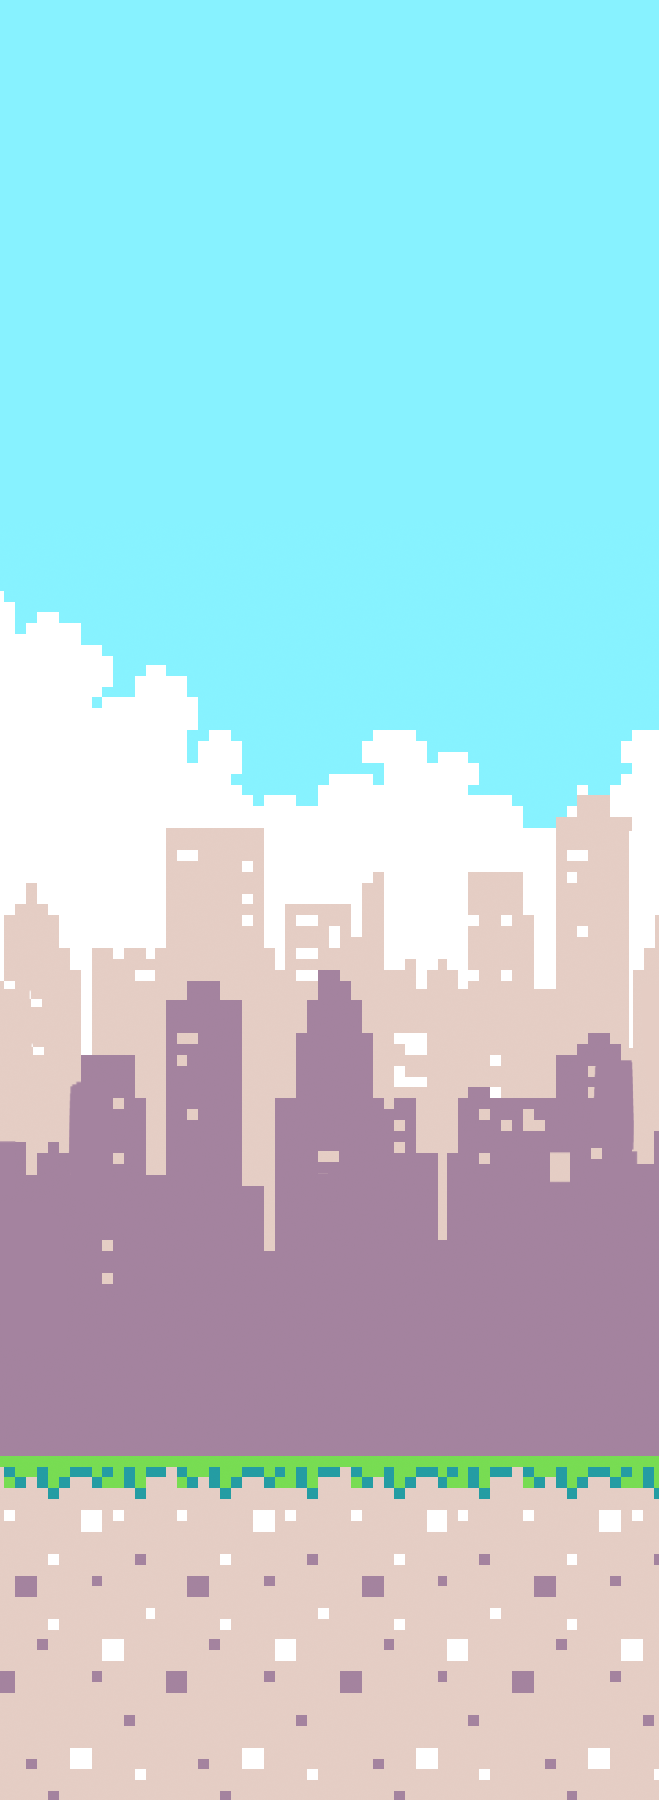
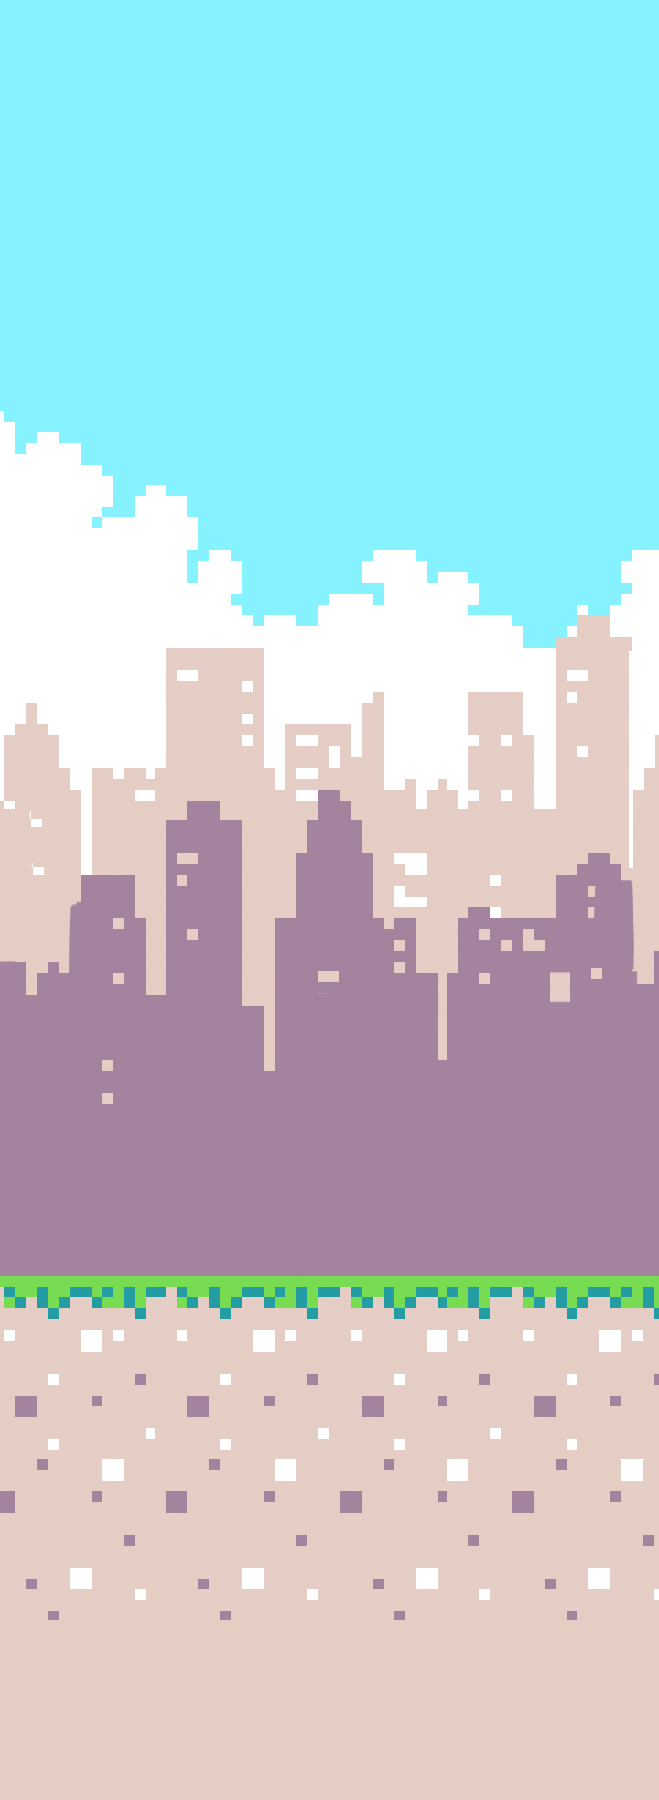
Insiders page changes & Space

diff --git a/docs/insiders.html b/docs/insiders.html
@@ -19,6 +19,7 @@
         h1 {
             font-size: 3em;
             margin-top: 1em;
+            color: #f5f7ec
         }
 
         .subheading {
@@ -28,6 +29,7 @@
 
         .tagline {
             opacity: 0.6;
+            color: #f5f7ec;
         }
 
         .header-image {
@@ -40,13 +42,12 @@
         }
 
         #root {
-            background: #0d0015;
+            background: #157175;
             background-image: url('static/insiders-background.png');
             display: block !important;
         }
 
         body,
-        h1,
         .ui.button {
             font-family: 'Helvetica Neue', Helvetica, Arial, sans-serif !important;
             font-weight: 300;
@@ -72,7 +73,7 @@
             justify-content: space-between;
             align-items: center;
             text-align: left;
-            background: #010102;
+            background: #157175;
             color: white;
             max-width: 800px;
             margin: 2em auto;
@@ -101,7 +102,7 @@
             width: 14em;
             padding: 1.5em;
             margin: 2em auto;
-            background-image: linear-gradient(116deg, #a3839e 0%, #f5f7ec 100%);
+            background-color:  #a3839e ;
             color: #ffffff;
             display: block;
             font-size: 1.4em;
@@ -111,9 +112,9 @@
 
         .ui.button:focus,
         .ui.button:hover {
-            background-image: linear-gradient(116deg, #a3839e 0%, #f5f7ec 100%);
+            background-color:  #f5f7ec ;
             box-shadow: 0 0 50px rgba(241, 193, 255, 0.75);
-            color: #ffffff;
+            color: #777777;
             filter: none;
             transform: scale(1.05);
         }
@@ -136,6 +137,11 @@
             ;
         }
 
+        ul.ui.list {
+            padding: 0;
+            margin: 0;
+        }
+
         ol.ui.list {
             padding: 0 2em;
             margin: 1em 1.25em;
@@ -153,6 +159,12 @@
             padding-bottom: 2em;
         }
 
+        .ele {
+            text-align: left;
+            max-width: 550px;
+            padding-bottom: 2em;
+        }
+
         .legal {
             font-size: .75em;
         }
@@ -163,7 +175,7 @@
 
         /** footer styling **/
         footer {
-            background-color: #0d0015 !important;
+            background-color: #157175 !important;
             border-top: 1px solid hsla(0, 0%, 100%, 0.2) !important;
             margin-top: 0 !important;
             padding-top: 2rem !important;
@@ -194,7 +206,8 @@
             }
 
             h1 {
-                font-size: 2.3em;
+                font-size: 2em;
+                font-weight: bold;
             }
         }
     </style>
@@ -214,25 +227,22 @@
 <body id="root" class="root" onload="handleOnLoad()">
     <div id="main" role="presentation">
         <div class="header-image"><img src="static/insiders-header.png" alt="MakeCode Insiders Program"></img></div>
-        <h1>Join the Microsoft MakeCode Insiders Program</h1>
+        <h1>MakeCode Insiders Program</h1>
         <p role="presentation" class="subheading">Share your opinion. Shape an experience.</p>
-        <p class="ele">
+        <br/>
+        <img src="static/insider-girl.png" alt="Girl playing with tablet"/>
+        <div class="ele">
             To be eligible for the program, students must meet the following criteria. 
             <ul>
                 <li>Aged 13-17 years old (born between December 2004 and July 2008)</li> 
-
                 <li>Live in the United States</li> 
-
                 <li>Read and speak English fluently</li> 
-
                 <li>Be available for an hour-long virtual session every week for three months</li> 
-
                 <li>Be available to dedicate up to two hours of additional time each week to Insider projects</li> 
-
                 <li>No coding experience required </li>
-</ul>
+            </ul>
             
-        </p>
+        </div>
 
         <ol class="ui ordered list">
             <li class="bottom aligned content">
@@ -254,7 +264,7 @@
                 href="https://forms.office.com/Pages/ResponsePage.aspx?id=v4j5cvGGr0GRqy180BHbR-NUWw6PQYtKs_JiARPQHZlURFRDMlA0M0hSTUpTWDYxRzJBNFpITE0yVC4u">Apply Now!</a>
         </ol>
 
-        <p class="cta">
+        <div ele>
             Need more resources?  See the list below:
             <ul>
                 <li>Insiders Handbook</li>
@@ -263,7 +273,7 @@
                 <li>Insider's Code of Conduct</li>
             </ul>
             
-        </p>
+        </div>
 
     </div>
 

diff --git a/libs/base/shims.d.ts b/libs/base/shims.d.ts
@@ -204,6 +204,8 @@ declare namespace control {
      */
     //% shim=control::dmesgValue
     function dmesgValue(v: any): void;
+}
+declare namespace control {
 
     /**
      * Force GC and dump basic information about heap.

diff --git a/docs/skillmap/space.md b/docs/skillmap/space.md
@@ -1,9 +1,9 @@
 # Build a Space Explorer
 * name: Build a Space Explorer
-* description: Learn to make a Galga-style game by following this short series of tutorials.
+* description: Learn to make a Galaga-style game by following this short series of tutorials.
 * infoUrl: skillmap/educator-info/int-map-info
 * bannerUrl: /static/skillmap/space/spacet6.gif
-* backgroundurl: /static/skillmap/backgrounds/space-comp.png
+* backgroundurl: /static/skillmap/backgrounds/space-comp.gif
 * primarycolor: #2EA9B0
 * secondarycolor: #d6f7fa
 * tertiarycolor: #5d416b
